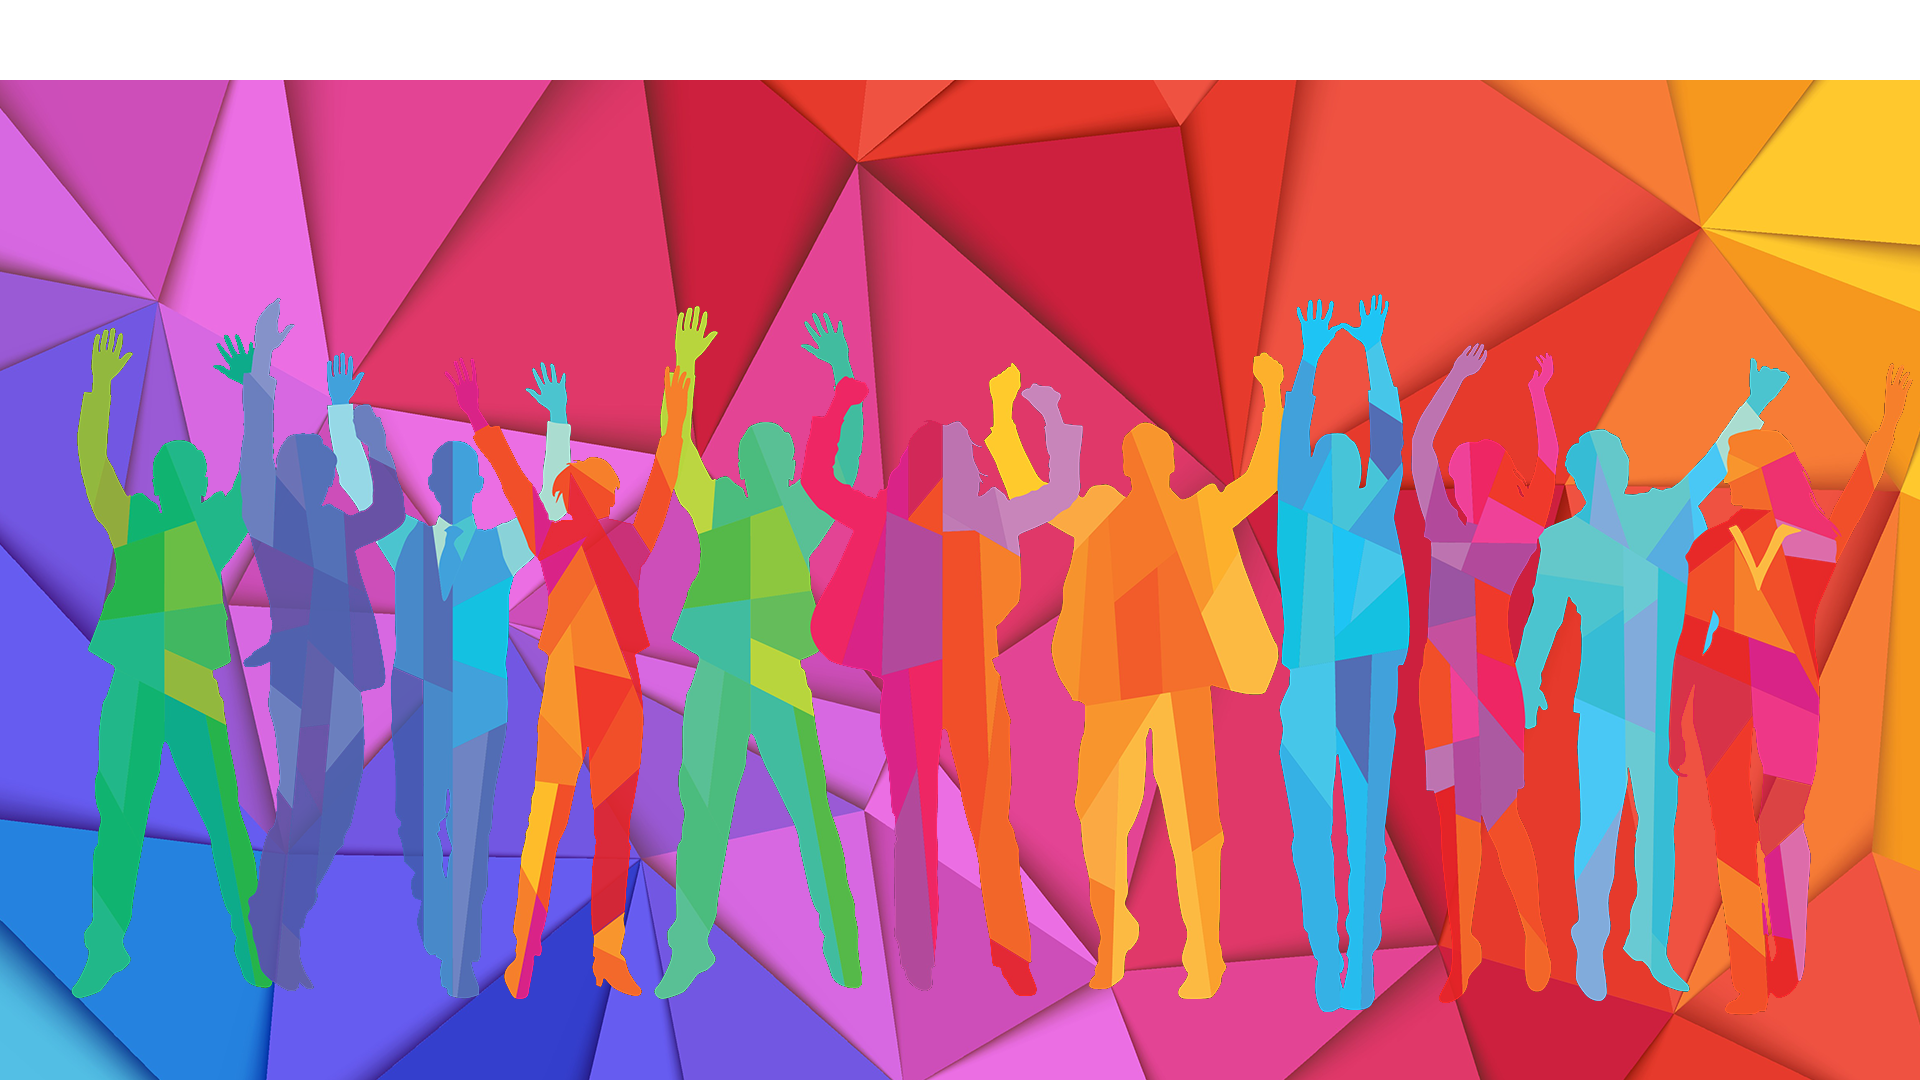
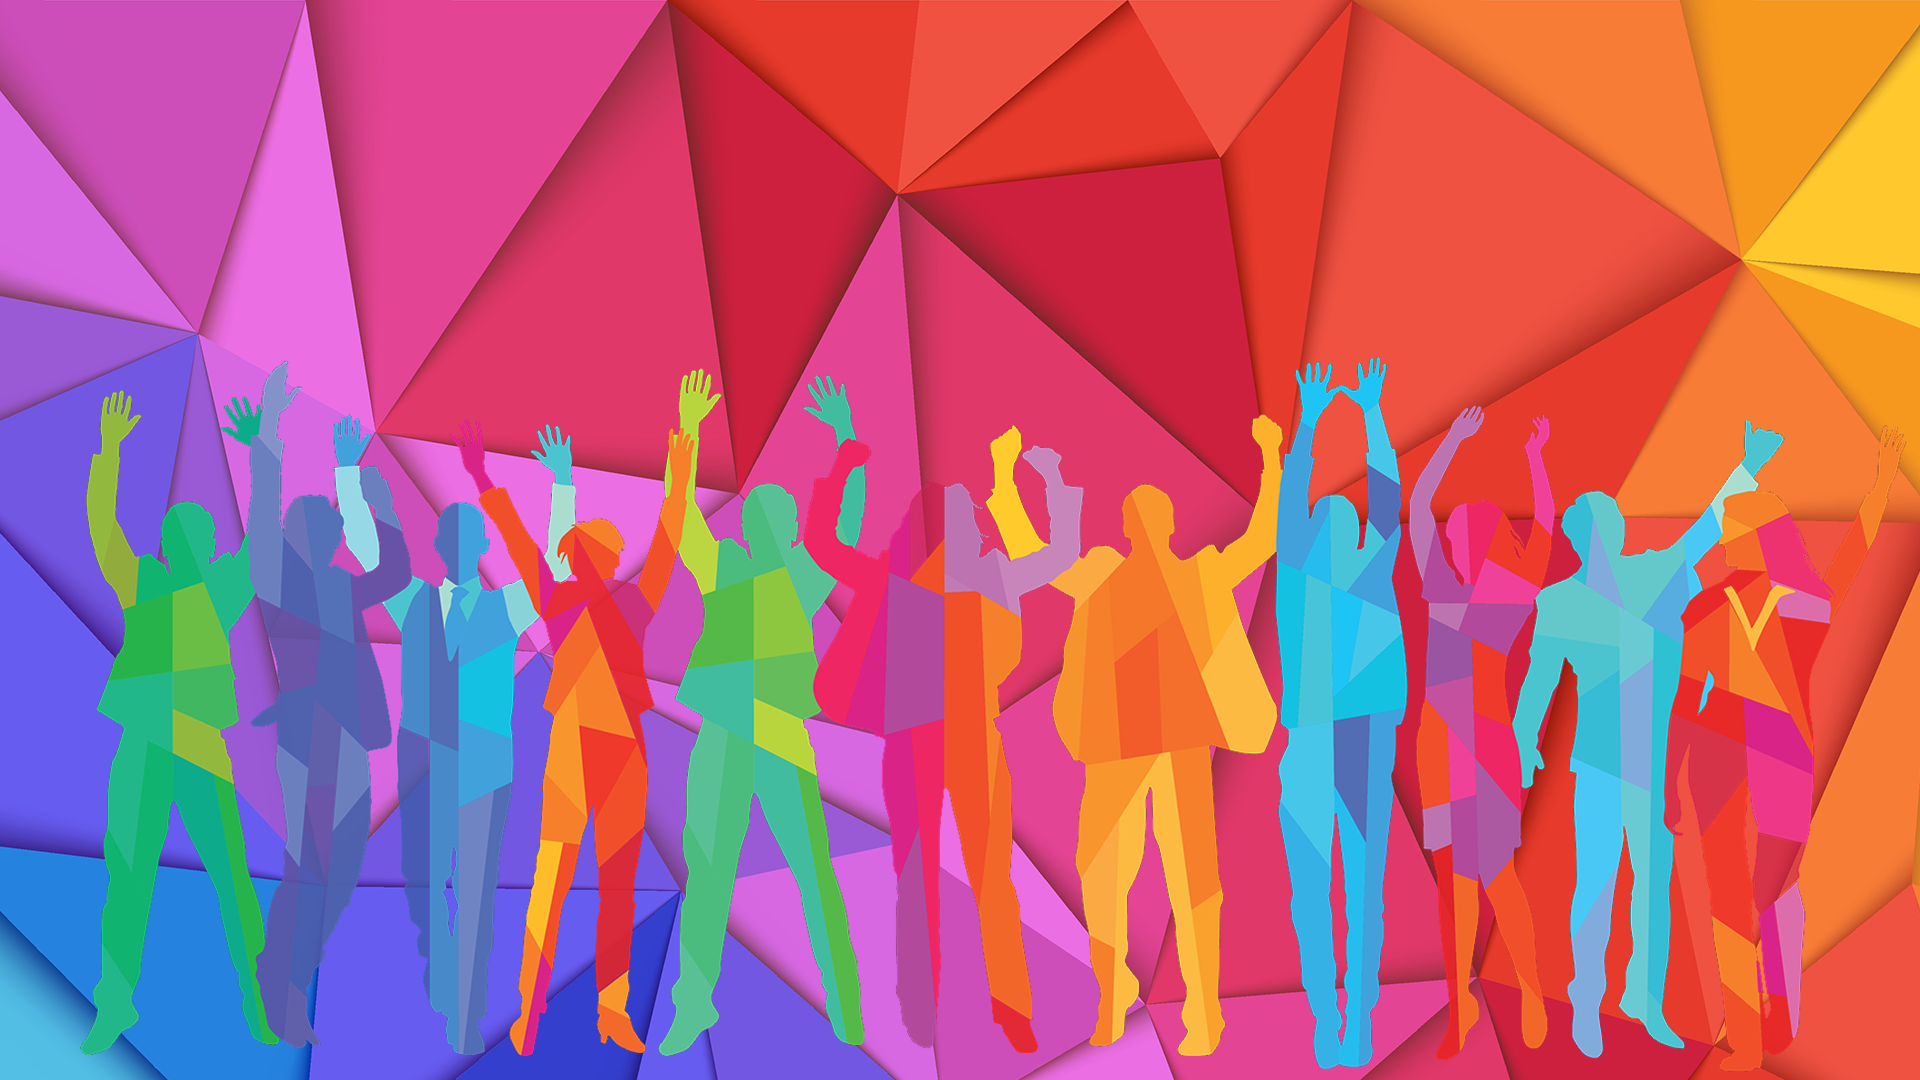
background and navbar
Fixed the background and added stickyness to navbar

diff --git a/src/App.vue b/src/App.vue
@@ -14,19 +14,20 @@
 @import url("https://fonts.googleapis.com/css2?family=Kufam&display=swap");
 
 body {
+  margin: 0;
+  overflow-x:hidden;
   background-image: url("./assets/Background_Box_mosaiq_1920_1080.png");
   background-size: cover;
   background-repeat: no-repeat;
   background-attachment: fixed;
   overflow-x:hidden;
-  margin: 0;
 }
+
 .hello {
   display: flex;
   flex-direction: row;
 }
-.home{
-
+.home {
 }
 .thumbnail {
   width: 100%;
@@ -35,32 +36,39 @@ body {
 }
 
 .eventtype {
-  max-width: 40vw;
+  max-width: 70vw;
   border: 3px black solid;
+  background-color: lightcyan;
   border-radius: 20px;
   padding: 20px;
   margin: 20px;
+}
+
+.timer {
+  font-size: 1rem;
 }
 #app {
   display: flex;
   align-items: center;
   flex-direction: column;
-  font-family: "Kufam", sans-serif;
-  -webkit-font-smoothing: antialiased;
-  -moz-osx-font-smoothing: grayscale;
   text-align: center;
+  justify-content: space-between;
+  font-family: "Kufam", sans-serif;
   color: #2c3e50;
+  left: 0px;
 }
 
 #nav {
-  flex-direction: row;
-  justify-content: center;
+  position: sticky;
   top: 0;
-  padding: 30px;
-  z-index: 100;
+  display: flex;
+  flex-direction: row;
+  padding: 10px;
+  font-size: 2.5vh;
+  justify-content: center;
   width: 100%;
-  height: 10%;
-  background-color: aliceblue;
+  height: 15%;
+  background-color: white;
 }
 
 #nav a {

diff --git a/src/components/items/ActivityItem.vue b/src/components/items/ActivityItem.vue
@@ -4,7 +4,7 @@
       <h3>{{activity.name.fi}}</h3>
     </a>
 
-    <h5>{{activity.where_when_duration.where_and_when}}</h5>
+    <h5 class="timer">{{activity.where_when_duration.where_and_when}}</h5>
     <div v-html="activity.description.body"></div>
     <button>Participate</button>
     <button>Interested</button>
